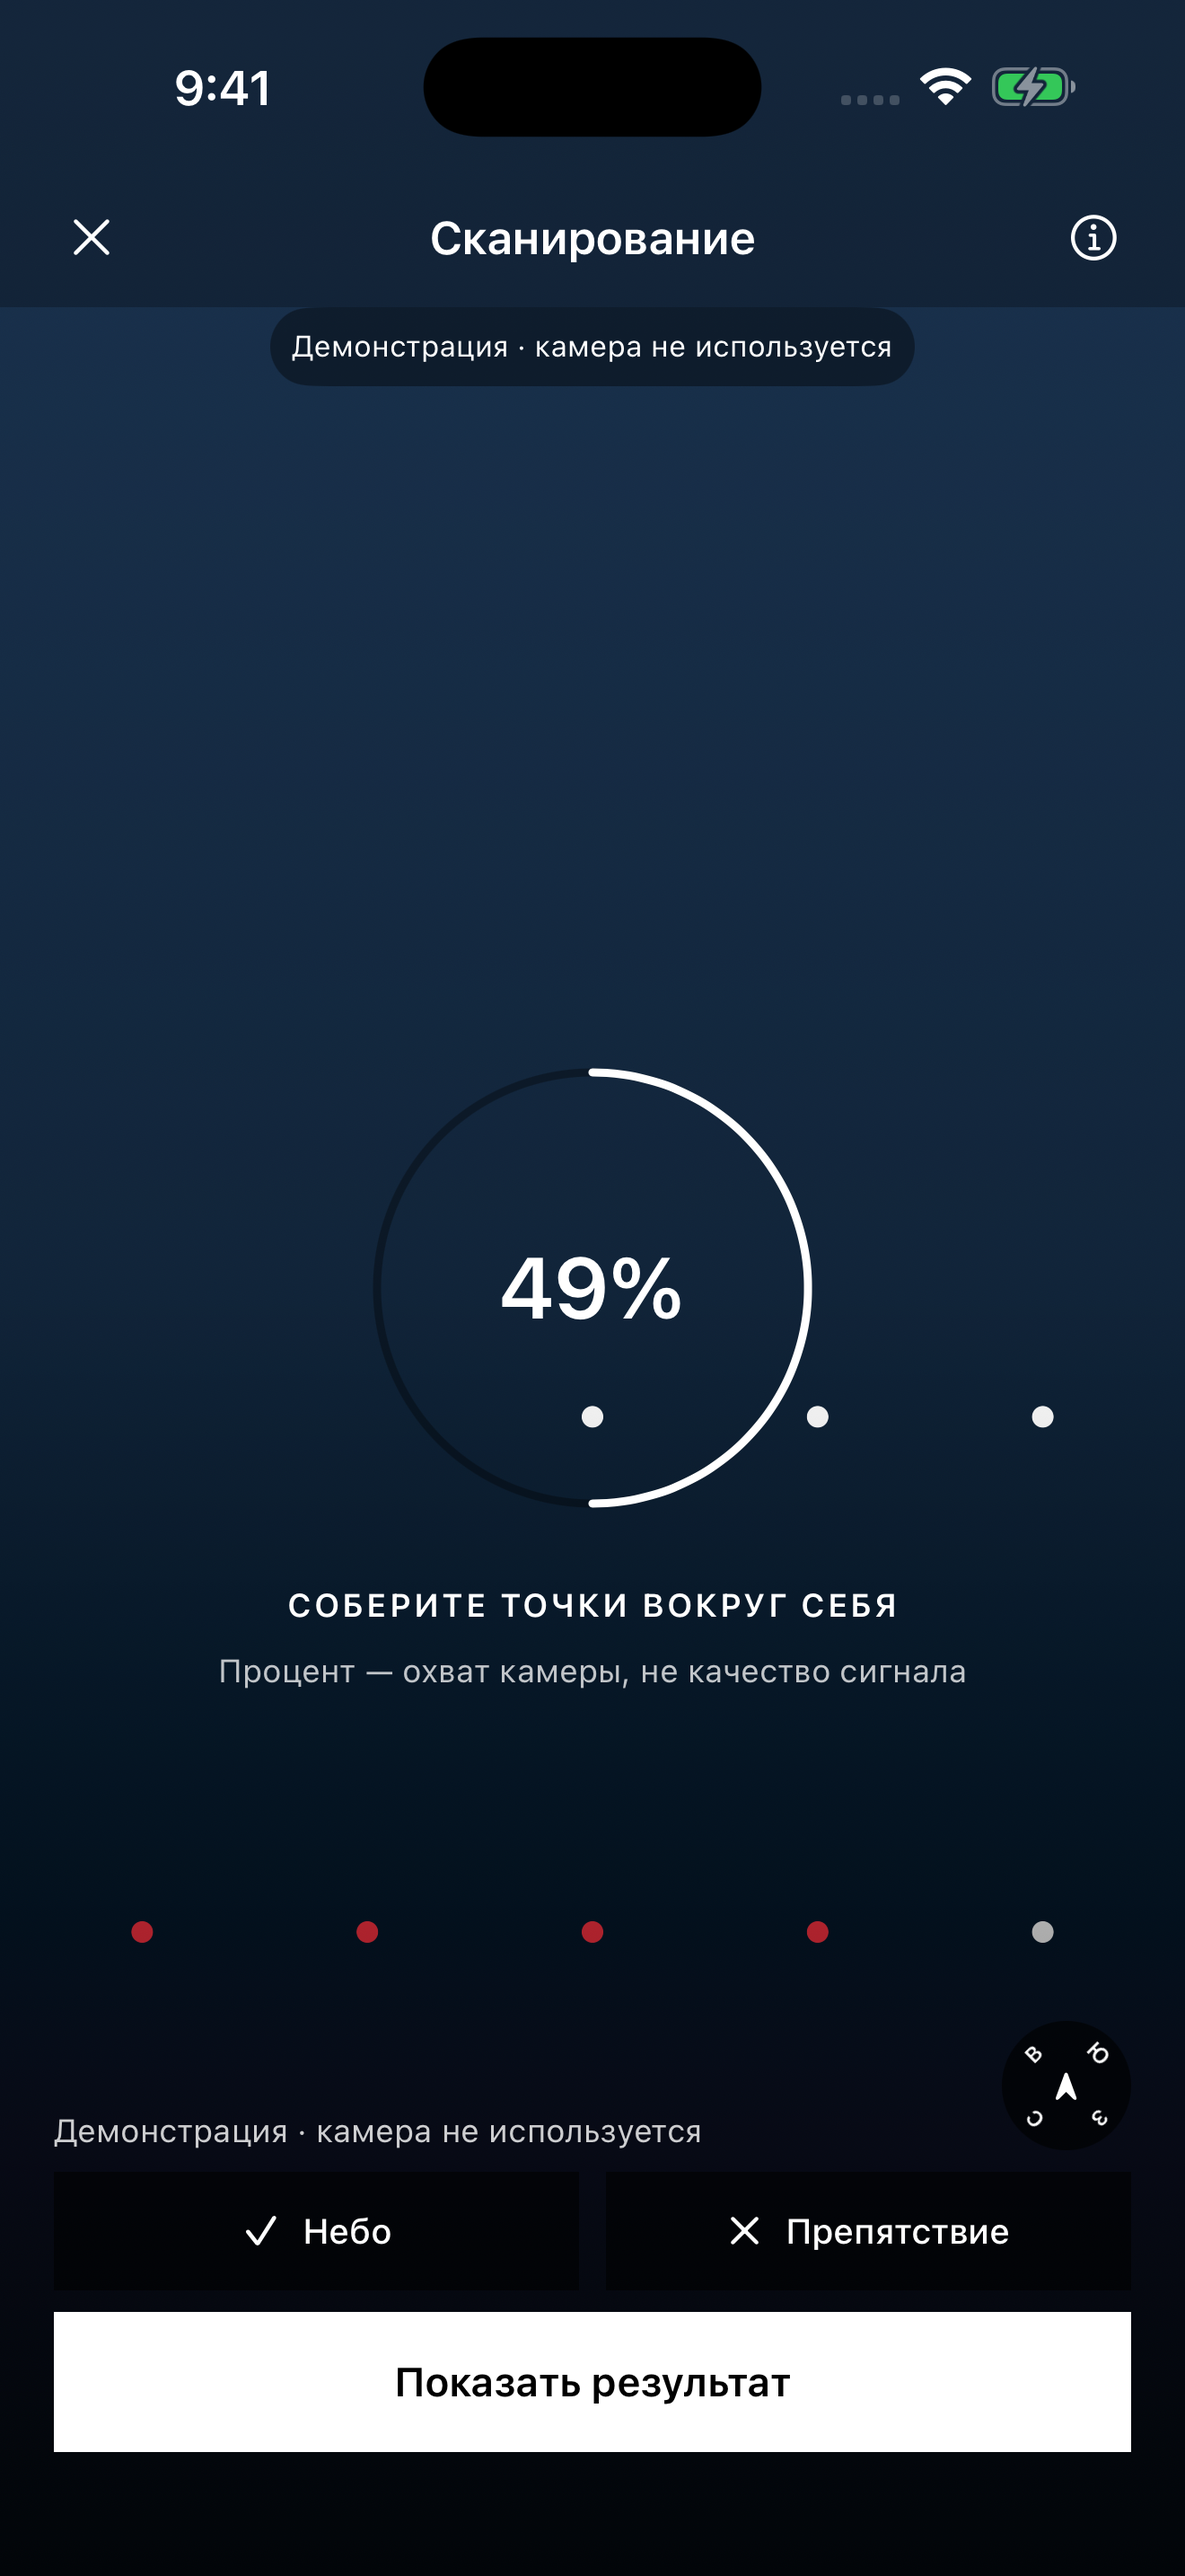
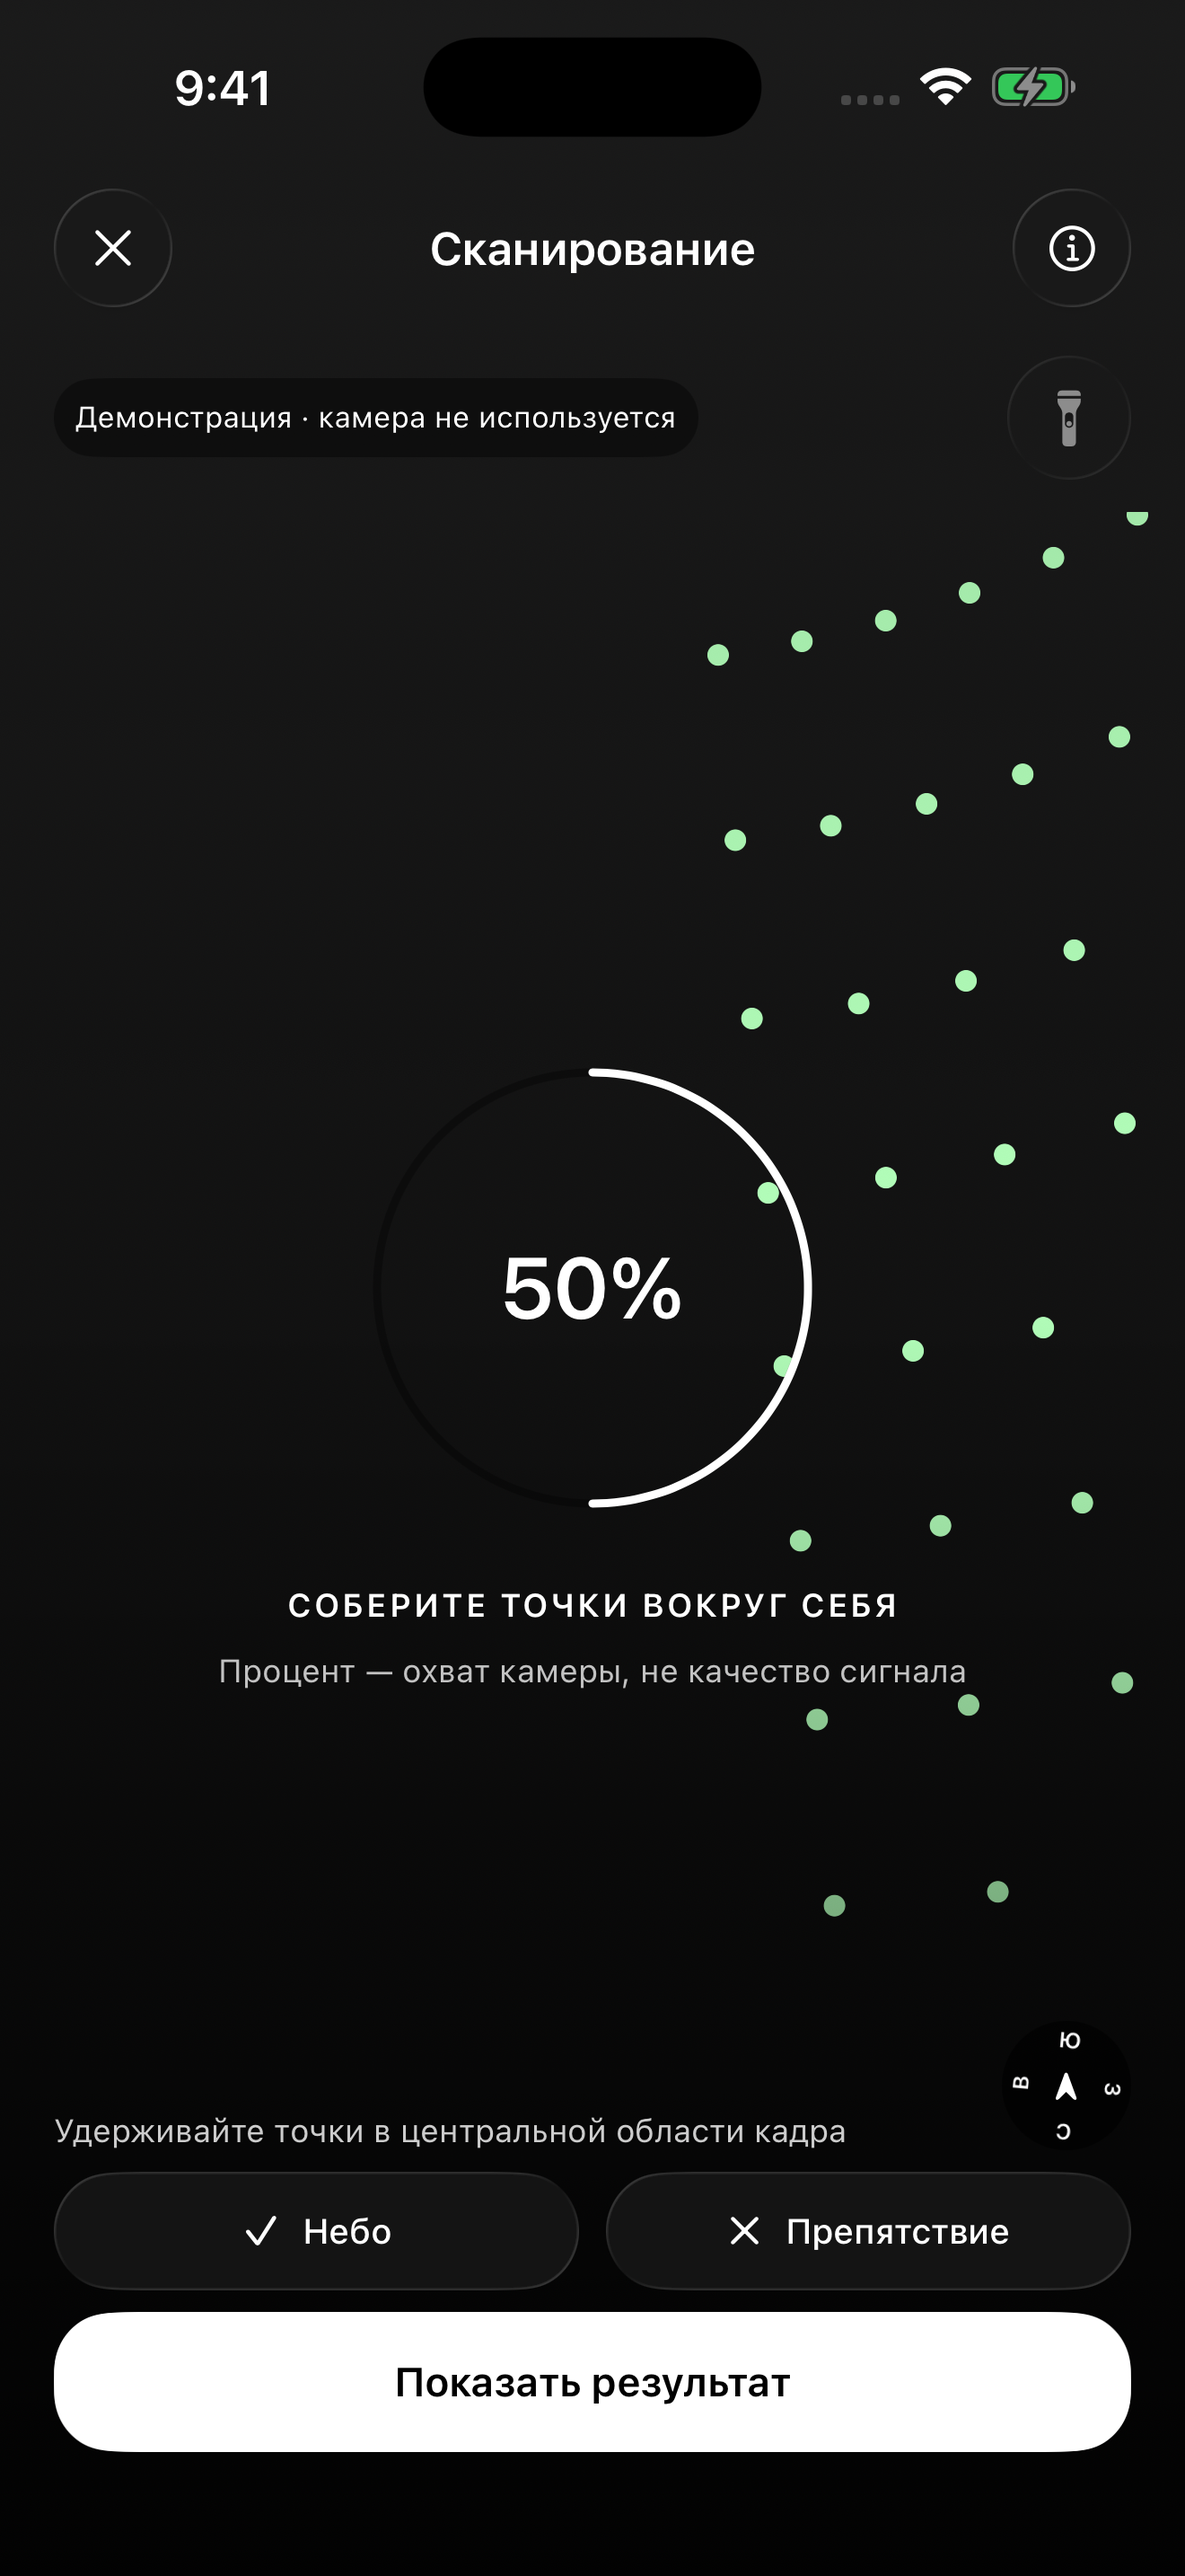
Wait for measured camera bounds before collecting targets [skip ci]

diff --git a/Tests/SkyScanLifecycleTests.swift b/Tests/SkyScanLifecycleTests.swift
@@ -2,6 +2,24 @@ import XCTest
 @testable import PloitSatellite
 
 final class SkyScanLifecycleTests: XCTestCase {
+    @MainActor func testCollectionWaitsForMeasuredViewportAndResetsAcrossLifecycle() async {
+        let scan = SkyScanController(torch:TestSkyScanTorch())
+        let center = CGPoint(x:0.5,y:0.5)
+        XCTAssertFalse(SkyScanCollectionArea.contains(center,visible:scan.collectionViewport))
+        scan.collectionViewport = SkyScanCollectionArea.central
+        XCTAssertTrue(SkyScanCollectionArea.contains(center,visible:scan.collectionViewport))
+        scan.stop()
+        XCTAssertEqual(scan.collectionViewport,.zero)
+        XCTAssertFalse(SkyScanCollectionArea.contains(center,visible:scan.collectionViewport))
+        scan.collectionViewport = SkyScanCollectionArea.central
+        // Empty-map inspection exits before camera authorization on every device.
+        // Even a rejected start must discard stale bounds from an earlier screen.
+        await scan.start(observer:nil,collecting:false)
+        XCTAssertFalse(scan.running)
+        XCTAssertEqual(scan.collectionViewport,.zero)
+        XCTAssertFalse(SkyScanCollectionArea.contains(center,visible:scan.collectionViewport))
+    }
+
     @MainActor func testEveryStopPathRequestsTorchOffAndPreviewCannotEnableIt() {
         let torch = TestSkyScanTorch()
         let scan = SkyScanController(torch:torch)

diff --git a/Sources/SkyScanCamera.swift b/Sources/SkyScanCamera.swift
@@ -75,7 +75,7 @@ enum SkyScanLocation {
     var coveredTargetCount: Int { survey.coveredCellCount }
     let totalTargetCount = SkySurvey.columns * SkySurvey.rows
     var headingReady = false
-    var collectionViewport = SkyScanCollectionArea.central
+    var collectionViewport = CGRect.zero
     let session = ARSession()
     let supportsDepth = ARWorldTrackingConfiguration.supportsFrameSemantics(.sceneDepth)
     private var lastSample: TimeInterval = 0
@@ -102,6 +102,7 @@ enum SkyScanLocation {
     }
     func start(observer: Observer?, collecting: Bool = true) async {
         let token = UUID(); startToken = token
+        collectionViewport = .zero
         torchError = nil
         if !collecting {
             guard survey.hasRecordedData else { message = "Сначала соберите карту обзора неба."; return }
@@ -147,6 +148,7 @@ enum SkyScanLocation {
     }
     func stop() {
         startToken = UUID(); running = false; direction = nil; collecting = false
+        collectionViewport = .zero
         requestTorch(false); session.pause()
         projectedTargets = []; dwell.reset(); feedback.reset(); collectionAnimation.reset(); collectionHaptic = nil
     }

diff --git a/README.md b/README.md
@@ -42,7 +42,7 @@ The app helps you choose a satellite, find an upcoming pass, point your antenna 
   <img src="docs/screenshots/orbits-night.png" width="45%" alt="Ночная сторона Земли с огнями городов">
 </p>
 
-Один ракурс в разное время. Используются статические карты NASA; они не показывают текущую облачность.
+Примеры дневной и ночной сторон. Используются статические карты NASA; они не показывают текущую облачность.
 
 </details>
 
